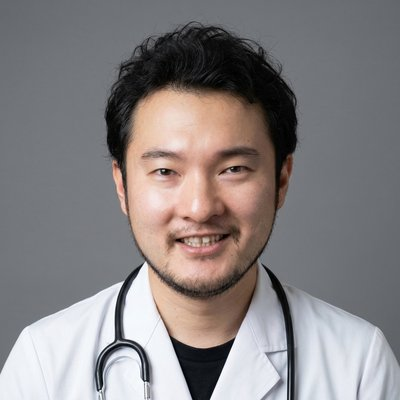
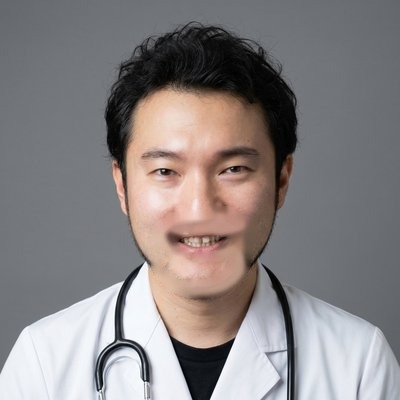
Add home-visit care and endoscopy across site; Tuesday PM schedule; retouch photo
- Hero, meta descriptions, footer: departments now include endoscopy and home-visit care
- Features: expand to 6 cards adding endoscopy, home-visit care, and fever clinic
- Services: add endoscopy and home-visit care items (now 6)
- Hours table: Tuesday afternoon marked as home-visit care with explanatory note
- FAQ: add home-visit care question
- Retouch Dr. Shugo's photo to remove beard

Changed region(s): [[0.36, 0.51, 0.63, 0.75]]

diff --git a/index.html b/index.html
@@ -4,13 +4,13 @@
   <meta charset="UTF-8">
   <meta name="viewport" content="width=device-width, initial-scale=1.0">
   <title>おおぞのクリニック | 内科・麻酔科・ペインクリニック内科｜鹿児島市春山町</title>
-  <meta name="description" content="鹿児島市春山町のおおぞのクリニックです。内科・麻酔科・救急・ペインクリニック内科の診療を行っています。発熱外来にも対応。お気軽にご相談ください。">
+  <meta name="description" content="鹿児島市春山町のおおぞのクリニックです。内科・麻酔科・ペインクリニック内科・内視鏡検査・訪問診療を行っています。発熱外来にも対応。お気軽にご相談ください。">
   <link rel="icon" type="image/png" href="favicon.png">
   <link rel="apple-touch-icon" href="apple-touch-icon.png">
   <meta property="og:type" content="website">
   <meta property="og:site_name" content="おおぞのクリニック">
   <meta property="og:title" content="おおぞのクリニック | 内科・麻酔科・ペインクリニック内科｜鹿児島市春山町">
-  <meta property="og:description" content="鹿児島市春山町のおおぞのクリニックです。内科・麻酔科・救急・ペインクリニック内科の診療を行っています。発熱外来にも対応。お気軽にご相談ください。">
+  <meta property="og:description" content="鹿児島市春山町のおおぞのクリニックです。内科・麻酔科・ペインクリニック内科・内視鏡検査・訪問診療を行っています。発熱外来にも対応。お気軽にご相談ください。">
   <meta property="og:url" content="https://daisakut.github.io/ozono/">
   <meta property="og:image" content="https://daisakut.github.io/ozono/logo.png">
   <meta property="og:locale" content="ja_JP">
@@ -63,7 +63,7 @@
       <p class="hero-catch">地域に根ざした、あたたかな医療を</p>
       <h1 class="hero-title">からだの不調や痛みのことなら、<br>おおぞのクリニックへ</h1>
       <p class="hero-desc">
-        内科・麻酔科・ペインクリニック内科を中心に、<br>
+        内科・麻酔科・ペインクリニック内科・内視鏡・訪問診療を中心に、<br>
         幅広い診療をご提供しています。<br>
         発熱外来にも対応しておりますので、<br>
         お気軽にご相談ください。
@@ -140,12 +140,48 @@
       <div class="feature-card">
         <div class="feature-icon">
           <svg width="28" height="28" viewBox="0 0 28 28" fill="none">
+            <circle cx="12" cy="12" r="7" stroke="#2EA7E0" stroke-width="2" fill="none"/>
+            <path d="M17 17l6 6" stroke="#2EA7E0" stroke-width="2" stroke-linecap="round"/>
+            <circle cx="12" cy="12" r="2.5" fill="#2EA7E0"/>
+          </svg>
+        </div>
+        <h3 class="feature-title">苦痛の少ない内視鏡検査</h3>
+        <p class="feature-desc">消化器内視鏡専門医による胃カメラ・大腸カメラ検査を行っています。「つらくない検査」を心がけ、がんの早期発見・早期治療につなげます。</p>
+      </div>
+
+      <div class="feature-card">
+        <div class="feature-icon">
+          <svg width="28" height="28" viewBox="0 0 28 28" fill="none">
+            <path d="M4 13L14 4l10 9" stroke="#2EA7E0" stroke-width="2" stroke-linecap="round" stroke-linejoin="round" fill="none"/>
+            <path d="M7 11v12h14V11" stroke="#2EA7E0" stroke-width="2" stroke-linecap="round" stroke-linejoin="round" fill="none"/>
+            <path d="M14 15.5v4M12 17.5h4" stroke="#2EA7E0" stroke-width="2" stroke-linecap="round"/>
+          </svg>
+        </div>
+        <h3 class="feature-title">訪問診療に対応</h3>
+        <p class="feature-desc">通院が難しい患者さまのご自宅へお伺いする訪問診療を行っています（毎週火曜日午後）。住み慣れたご自宅で安心して療養いただけます。</p>
+      </div>
+
+      <div class="feature-card">
+        <div class="feature-icon">
+          <svg width="28" height="28" viewBox="0 0 28 28" fill="none">
             <path d="M14 4L5 8.5v9C5 21.6 9 25 14 26c5-1 9-4.4 9-8.5v-9L14 4Z" stroke="#2EA7E0" stroke-width="2" fill="none"/>
             <path d="M10 14l2.5 2.5 5.5-5.5" stroke="#2EA7E0" stroke-width="2" stroke-linecap="round" stroke-linejoin="round"/>
           </svg>
         </div>
         <h3 class="feature-title">救急医療の豊富な経験</h3>
         <p class="feature-desc">夜間急病センターや救急病院で25年間にわたり培った経験を活かし、急な体調不良にも迅速に対応いたします。</p>
+      </div>
+
+      <div class="feature-card">
+        <div class="feature-icon">
+          <svg width="28" height="28" viewBox="0 0 28 28" fill="none">
+            <path d="M12 4v12.5a4.5 4.5 0 1 0 4 0V4a2 2 0 0 0-4 0Z" stroke="#2EA7E0" stroke-width="2" fill="none"/>
+            <circle cx="14" cy="20.5" r="2" fill="#2EA7E0"/>
+            <path d="M14 18.5V9" stroke="#2EA7E0" stroke-width="2" stroke-linecap="round"/>
+          </svg>
+        </div>
+        <h3 class="feature-title">発熱外来に対応</h3>
+        <p class="feature-desc">受診歴の有無にかかわらず、発熱などの感染症が疑われる患者さまを受け入れています。予約制ですので、受診前にお電話ください。</p>
       </div>
 
       <div class="feature-card">
@@ -270,6 +306,34 @@
         <div>
           <div class="service-name">救急</div>
           <div class="service-detail">夜間急病センターや救急病院で培った25年間の経験を活かし、急な体調不良に対応いたします。</div>
+        </div>
+      </div>
+
+      <div class="service-item">
+        <div class="service-icon">
+          <svg width="22" height="22" viewBox="0 0 22 22" fill="none">
+            <circle cx="9.5" cy="9.5" r="5.5" stroke="#2EA7E0" stroke-width="1.8" fill="none"/>
+            <path d="M13.5 13.5l5 5" stroke="#2EA7E0" stroke-width="1.8" stroke-linecap="round"/>
+            <circle cx="9.5" cy="9.5" r="1.8" fill="#2EA7E0"/>
+          </svg>
+        </div>
+        <div>
+          <div class="service-name">内視鏡検査</div>
+          <div class="service-detail">消化器内視鏡専門医による胃カメラ・大腸カメラ検査を行います。詳しくは<a href="#endoscopy">内視鏡検査のご案内</a>をご覧ください。</div>
+        </div>
+      </div>
+
+      <div class="service-item">
+        <div class="service-icon">
+          <svg width="22" height="22" viewBox="0 0 22 22" fill="none">
+            <path d="M3 10.5L11 3.5l8 7" stroke="#2EA7E0" stroke-width="1.8" stroke-linecap="round" stroke-linejoin="round" fill="none"/>
+            <path d="M5.5 9v9.5h11V9" stroke="#2EA7E0" stroke-width="1.8" stroke-linecap="round" stroke-linejoin="round" fill="none"/>
+            <path d="M11 12v4M9 14h4" stroke="#2EA7E0" stroke-width="1.8" stroke-linecap="round"/>
+          </svg>
+        </div>
+        <div>
+          <div class="service-name">訪問診療</div>
+          <div class="service-detail">通院が困難な患者さまのご自宅へお伺いして診療を行います。毎週火曜日の午後に実施しています。ご希望の方はお電話にてご相談ください。</div>
         </div>
       </div>
 
@@ -517,7 +581,7 @@
             <tr>
               <td class="hours-period">午後<br><small>14:00-18:30</small></td>
               <td class="ok">○</td>
-              <td class="ok">○</td>
+              <td class="visit">訪問<br>診療</td>
               <td class="ng">×</td>
               <td class="ok">○</td>
               <td class="ok">○</td>
@@ -526,7 +590,7 @@
             </tr>
           </tbody>
         </table>
-        <p class="hours-note">※ 受付は午前12:00まで、午後18:00までとなります。<br>※ 発熱外来は予約制です。事前にお電話ください。</p>
+        <p class="hours-note">※ 受付は午前12:00まで、午後18:00までとなります。<br>※ 火曜日の午後は訪問診療のため、外来診療はお休みです。<br>※ 発熱外来は予約制です。事前にお電話ください。</p>
 
         <div class="access-items">
           <div class="access-item">
@@ -707,6 +771,11 @@
         <div class="faq-a">最寄りのバス停は「お茶の里」です。バス停から当院までは徒歩でお越しいただけます。</div>
       </details>
 
+      <details class="faq-item">
+        <summary class="faq-q">訪問診療はお願いできますか？</summary>
+        <div class="faq-a">毎週火曜日の午後に訪問診療を行っています。通院が難しい方は、お電話（099-278-0500）にてお気軽にご相談ください。なお、火曜日の午後は訪問診療のため外来診療はお休みです。</div>
+      </details>
+
     </div>
   </div>
 </section>
@@ -754,7 +823,7 @@
     <div class="footer-grid">
       <div class="footer-about">
         <p class="footer-name">おおぞのクリニック</p>
-        <p class="footer-desc">内科・麻酔科・ペインクリニック内科を専門とするクリニックです。発熱外来にも対応し、地域の皆さまの健康を支えています。</p>
+        <p class="footer-desc">内科・麻酔科・ペインクリニック内科・内視鏡・訪問診療を中心とするクリニックです。発熱外来にも対応し、地域の皆さまの健康を支えています。</p>
       </div>
       <div>
         <p class="footer-heading">診療内容</p>
@@ -765,6 +834,7 @@
           <li><a href="#services">救急</a></li>
           <li><a href="#fever">発熱外来</a></li>
           <li><a href="#endoscopy">内視鏡検査</a></li>
+          <li><a href="#services">訪問診療</a></li>
         </ul>
       </div>
       <div>

diff --git a/style.css b/style.css
@@ -708,6 +708,7 @@ img { max-width: 100%; display: block; }
 
 .hours-table td.ok  { color: var(--primary);    font-weight: 700; font-size: 1rem; }
 .hours-table td.ng  { color: var(--text-gray);  font-size: 1rem; }
+.hours-table td.visit { color: var(--accent-dark); font-weight: 700; font-size: 0.68rem; line-height: 1.4; }
 .hours-table tr:nth-child(even) td { background: var(--bg); }
 
 .hours-note {
